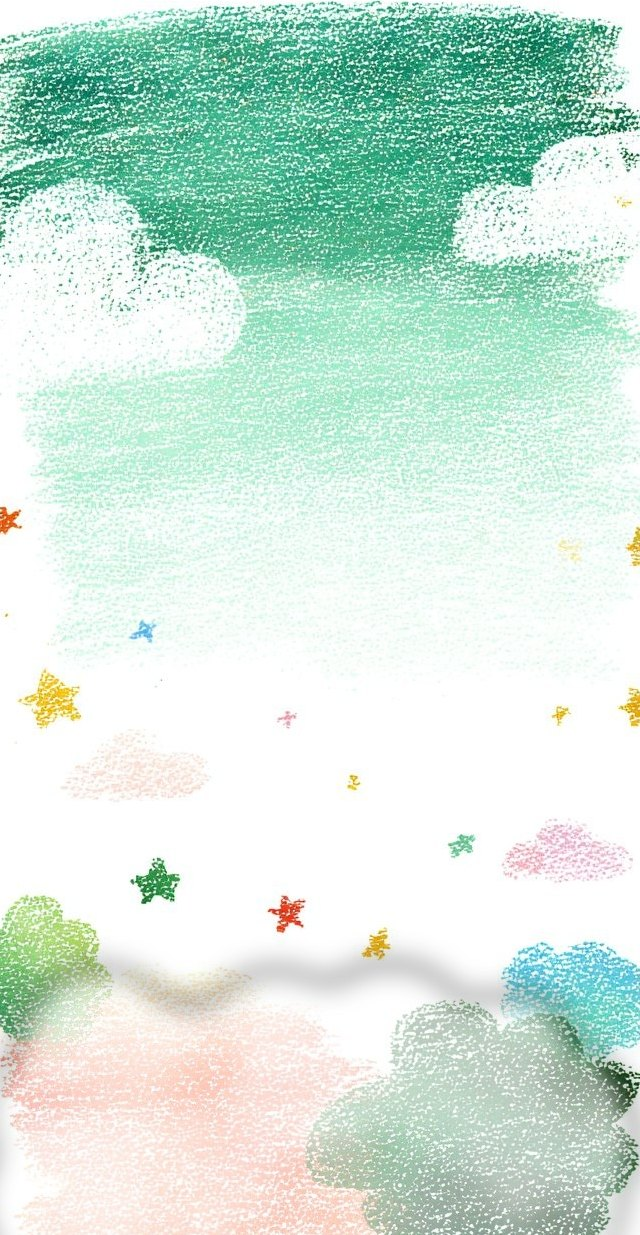
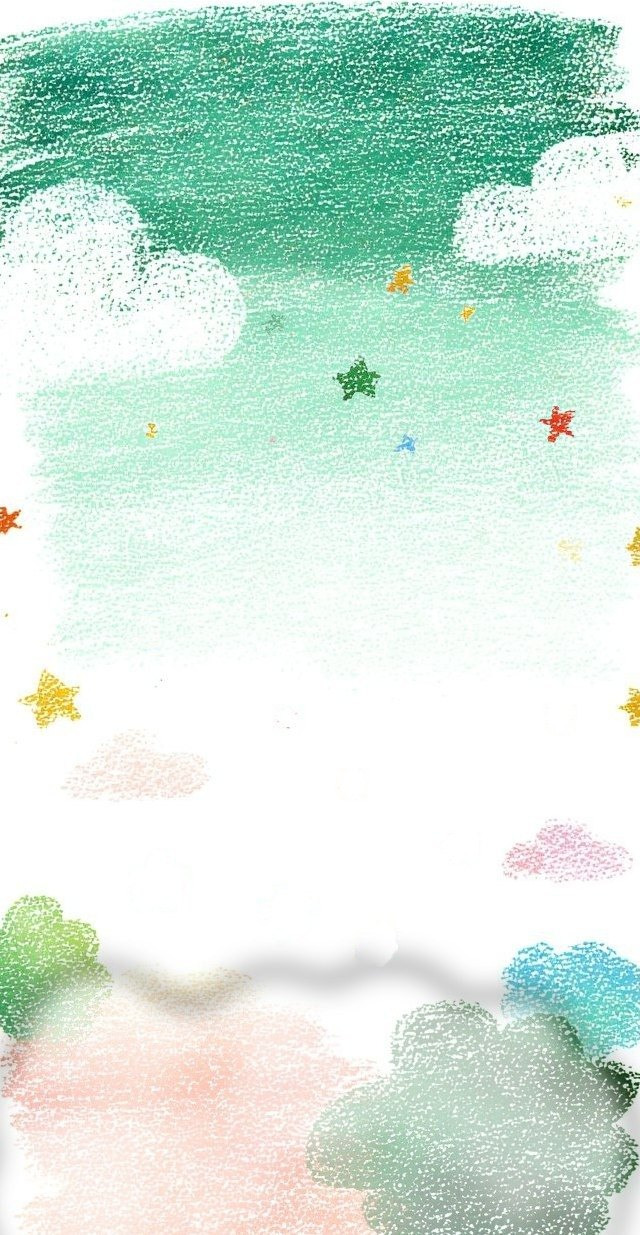
Flah's answers: shift+A/shift+D (WCAG 2.1.4), a part 2 goes straight to its questions, the crayon stickers moved off the tank in both backgrounds (hand-drawn art kept), the canvas 3D slime held a shade darker too; tall phone tank prototype for Flah; dev-slimecontrast draws all three views; sw v158
Claude-Session: https://claude.ai/code/session_01JndoQUkmvLh6Y9cZgAK4rP

diff --git a/index.html b/index.html
@@ -2205,7 +2205,7 @@ select:focus-visible{outline:3px solid #8f6ae0;outline-offset:2px}
     </div>
     </div><!-- /.fadeRow -->
     <button class="btn primary big" id="playBtn" title="play / pause" aria-label="play or pause">▶</button>
-    <button class="btn big" id="drumBtn" title="drums (D)" aria-label="drums" data-l="drums"><svg width="30" height="30" viewBox="0 0 24 24"><use href="#icKit"/></svg></button>
+    <button class="btn big" id="drumBtn" title="drums (shift+D)" aria-label="drums" data-l="drums"><svg width="30" height="30" viewBox="0 0 24 24"><use href="#icKit"/></svg></button>
     <button class="btn big" id="bandBtn" title="backing band" aria-label="backing band" data-l="band"><svg width="45" height="34" viewBox="0 0 32 24"><use href="#icBass"/></svg></button>
     <button class="btn big" id="dropBtn" title="drop a ball" aria-label="drop a ball" data-l="ball"><svg width="28" height="28" viewBox="0 0 24 24"><use href="#icBall"/></svg></button>
     <button class="btn big" id="newShapeBtn" title="new shape!" aria-label="new shape">🎲</button>
@@ -2226,7 +2226,7 @@ select:focus-visible{outline:3px solid #8f6ae0;outline-offset:2px}
      Populated at runtime by MOVING the existing (already-wired) controls in, so there is exactly one
      #bpmNum, one #drumSig etc. in the document - duplicating them would fork the state. -->
 <div id="studioBar"></div>
-<div id="autoRow"><button class="slimeswitch" id="slimeBig" title="auto-play (A)"><span class="ss-knob"><span class="sic">✨</span></span></button><button type="button" id="autoNotesBtn" aria-pressed="false" aria-label="the slime plays notes too" title="the slime plays notes too"><span class="anWord" aria-hidden="true">notes</span><svg viewBox="0 0 28 28" width="30" height="30" aria-hidden="true"><defs><radialGradient id="anG" cx=".34" cy=".3" r=".85"><stop offset="0" stop-color="#fff"/><stop offset=".28" stop-color="#d4f7ea"/><stop offset=".7" stop-color="#8fdcc4"/><stop offset="1" stop-color="#3fae90"/></radialGradient></defs><path d="M16.6 19.5V4.2" fill="none" stroke="#4a4170" stroke-width="2.3" stroke-linecap="round"/><path d="M16.6 4.2c3.2.9 5.6 3 5.9 6.6-.9-1.4-2.6-2.4-5.9-2.8" fill="#4a4170" stroke="#4a4170" stroke-width="1.2" stroke-linejoin="round"/><ellipse class="anHead" cx="11.6" cy="20" rx="6.2" ry="4.9" transform="rotate(-22 11.6 20)" fill="url(#anG)" stroke="#2f9c80" stroke-width="1.2"/><ellipse cx="9.4" cy="18.3" rx="1.8" ry="1.1" transform="rotate(-22 9.4 18.3)" fill="#fff" opacity=".9"/><path class="anDash" d="M4.5 4.5 L23.5 23.5" fill="none" stroke="#fff" stroke-width="4.4" stroke-linecap="round"/><path class="anDash" d="M4.5 4.5 L23.5 23.5" fill="none" stroke="#e0332f" stroke-width="2.2" stroke-linecap="round"/></svg></button></div>
+<div id="autoRow"><button class="slimeswitch" id="slimeBig" title="auto-play (shift+A)"><span class="ss-knob"><span class="sic">✨</span></span></button><button type="button" id="autoNotesBtn" aria-pressed="false" aria-label="the slime plays notes too" title="the slime plays notes too"><span class="anWord" aria-hidden="true">notes</span><svg viewBox="0 0 28 28" width="30" height="30" aria-hidden="true"><defs><radialGradient id="anG" cx=".34" cy=".3" r=".85"><stop offset="0" stop-color="#fff"/><stop offset=".28" stop-color="#d4f7ea"/><stop offset=".7" stop-color="#8fdcc4"/><stop offset="1" stop-color="#3fae90"/></radialGradient></defs><path d="M16.6 19.5V4.2" fill="none" stroke="#4a4170" stroke-width="2.3" stroke-linecap="round"/><path d="M16.6 4.2c3.2.9 5.6 3 5.9 6.6-.9-1.4-2.6-2.4-5.9-2.8" fill="#4a4170" stroke="#4a4170" stroke-width="1.2" stroke-linejoin="round"/><ellipse class="anHead" cx="11.6" cy="20" rx="6.2" ry="4.9" transform="rotate(-22 11.6 20)" fill="url(#anG)" stroke="#2f9c80" stroke-width="1.2"/><ellipse cx="9.4" cy="18.3" rx="1.8" ry="1.1" transform="rotate(-22 9.4 18.3)" fill="#fff" opacity=".9"/><path class="anDash" d="M4.5 4.5 L23.5 23.5" fill="none" stroke="#fff" stroke-width="4.4" stroke-linecap="round"/><path class="anDash" d="M4.5 4.5 L23.5 23.5" fill="none" stroke="#e0332f" stroke-width="2.2" stroke-linecap="round"/></svg></button></div>
 <div id="triMixBar">
   <div id="triMix" title="drag to mix: melody (top) · drums (left) · band (right)">
     <svg viewBox="-40 -46 180 172" width="248" height="238" style="display:block;overflow:visible">
@@ -3786,6 +3786,10 @@ function relLum(c){const f=v=>{v/=255;return v<=0.04045?v/12.92:Math.pow((v+0.05
 // a slime the same hue as the page (mint, ~150 deg: Flah's case, green on the green grass; yellow-greens and teals read
 // green on it too, so 75 deg either side) has only lightness to stand out by, so it goes a fifth deeper
 const PAGE_HUE=150/360;
+// an RGB colour (0..255) held to the same shade as slimeShade, hue and saturation kept
+function slimeRGB(c){const r=c[0]/255,g=c[1]/255,b=c[2]/255,mx=Math.max(r,g,b),mn=Math.min(r,g,b),l=(mx+mn)/2,d=mx-mn;
+  let h=0,s=0;if(d){s=l>0.5?d/(2-mx-mn):d/(mx+mn);h=(mx===r?((g-b)/d+(g<b?6:0)):mx===g?(b-r)/d+2:(r-g)/d+4)/6;}
+  const q=slimeShade([h,s,l]);return hslRGB(q[0],q[1],q[2]);}
 function slimeShade(h,yMax){const dh=Math.abs(((h[0]-PAGE_HUE)%1+1.5)%1-0.5)*360,Ym=(yMax||SLIME_Y_MAX)*(dh<75?0.8:1);let l=h[2];for(let i=0;i<70&&l>0.05&&relLum(hslRGB(h[0],h[1],l))>Ym;i++)l-=0.01;return [h[0],h[1],l];}
 let liqRGB=[178,205,240],liqHSL=null; // eased every frame so the color glides between chords, never snaps (round the wheel: liqHSL)
 function liquidColor(){
@@ -6580,7 +6584,10 @@ function drawGoo3D(){if(fillState==="fill"&&goo3D()){
     if(!particles.length){mMask=null;measuredFill=Math.max(0,measuredFill-0.02);return;}
     liquidColor();if(++mFrame%10===0||!mMask)measureFill();
     const m=(liqRGB[0]+liqRGB[1]+liqRGB[2])/3,c=liqRGB.map(v=>Math.max(0,Math.min(255,m+(v-m)*2.2)));   // the chord's colour, pushed to a clear pastel: the flat blend reads grey through tinted glass
-    softBlobs(`rgba(${c.map(v=>(v+(255-v)*0.25)|0).join(',')},.9)`,true);return;}
+    // ...and still a shade darker than the page (look question 6): the pastel push and the lift toward white made a
+    // green slime near white again in this canvas view (the one without a graphics card)
+    const f=slimeRGB(c.map(v=>v+(255-v)*0.25));
+    softBlobs(`rgba(${f.map(v=>v|0).join(',')},.9)`,true);return;}
   ctx.save();ctx.transform(...planeAt(0.5));drawParticles(true);ctx.restore();}
 function drawDroplets3D(){for(const p of particles){if(p.pooled)continue;const s=P3(p.x,p.y,p.z==null?0.5:p.z);
   ctx.fillStyle=aurora(p.hue,58,0.95);ctx.beginPath();ctx.arc(s[0],s[1],2.2*s[2],0,7);ctx.fill();}}
@@ -7887,7 +7894,7 @@ addEventListener('pointerdown',()=>{_ptrAt=performance.now();},true);
 addEventListener('focusin',e=>{_kbFocusEl=(performance.now()-_ptrAt<500)?null:e.target;},true);
 addEventListener('keydown',e=>{
   const tg=e.target.tagName;if(tg==='SELECT'||tg==='INPUT'||tg==='TEXTAREA')return;
-  if((kbOn||S.mode==='learn')&&!e.repeat){ // instrument mode: letters are keys, not shortcuts. learn lessons: always on — no toggle hunting
+  if((kbOn||S.mode==='learn')&&!e.repeat&&!e.shiftKey){ // instrument mode: letters are keys, not shortcuts (shift+letter still is one, Ableton's way). learn lessons: always on
     if(e.code==='KeyZ'||e.code==='KeyX'){
       kbOct=e.code==='KeyZ'?Math.max(-3,kbOct-1):Math.min(3,kbOct+1);
       const ov2=$("kbOctV");if(ov2)ov2.textContent='oct '+(kbOct>=0?'+':'')+kbOct;
@@ -7903,12 +7910,14 @@ addEventListener('keydown',e=>{
   // STUDIO: Space plays and pauses, as in every DAW (Ableton Live 12 manual 42.20 "Play/Stop: Space"; GarageBand "Start or
   // stop playback: Space bar"). The ball rainstorm stays on Enter and Shift there, and on all three in play.
   if(S.mode==='studio'&&e.code==='Space'){e.preventDefault();if(!e.repeat)$("playBtn").click();return;}
-  if(e.code==='Space'||e.code==='Enter'||e.code==='ShiftLeft'||e.code==='ShiftRight'){e.preventDefault(); // hold any of them for a ball rainstorm
+  if(e.code==='Space'||e.code==='Enter'){e.preventDefault(); // hold either for a ball rainstorm (Shift was one too: it is the shortcuts' key now)
     const nw=performance.now();if(nw-lastKb<110)return;lastKb=nw;
     initAudio();if(AC&&AC.state==='suspended')AC.resume();
     spawn(CX+(Math.random()-.5)*R*1.2,CY-R*0.45);if(!S.playing)setPlaying(true);}
-  else if(e.code==='KeyA'&&!e.repeat)$("slimeBig").click();
-  else if(e.code==='KeyD'&&!e.repeat)$("drumBtn").click();
+  // SHIFT+LETTER, NOT A BARE LETTER (WCAG 2.2 SC 2.1.4 Character Key Shortcuts: a printable-key shortcut must be
+  // possible to turn off or remap, or include a modifier; Flah 2026-11-11). A bare A or D typed anywhere did this.
+  else if(e.code==='KeyA'&&e.shiftKey&&!e.repeat)$("slimeBig").click();
+  else if(e.code==='KeyD'&&e.shiftKey&&!e.repeat)$("drumBtn").click();
   else if(e.code==='ArrowUp'||e.code==='ArrowDown'){e.preventDefault();
     setBpm(S.bpm+(e.code==='ArrowUp'?2:-2));}
 });

diff --git a/_dev/dev-learn3.js b/_dev/dev-learn3.js
@@ -242,7 +242,7 @@ const JUDGED=['howlong','sayplay','echo','notes'];   // (staff is read by sight 
  ok(cx.count.trim().startsWith('1 '),'11b the next, tapped the same plus one tap on a small count, does not ('+cx.taps+' taps: '+cx.count+', "'+cx.feed+'")');
 
  // ---- 14: a merged lesson: High and Low's rounds, then Up or Down as its part 2, then ONE ending
- {await open('high');let saw2=false,title2='';
+ {await open('high');let saw2=false,title2='',p2explore=null;
   for(let i=0;i<120&&!(await p.evaluate(()=>!!document.querySelector('.lgDone')));i++){
    await p.evaluate(()=>{const r=document.querySelector('#learnOverlay [data-lg="ready"]');if(r){r.dispatchEvent(new PointerEvent('pointerdown',{bubbles:true,cancelable:true}));return;}
      const l=document.querySelector('#learnOverlay .lgListen.go');if(l)l.click();});await p.waitForTimeout(500);   /* part 2 opens on its own explore screen */
@@ -250,10 +250,11 @@ const JUDGED=['howlong','sayplay','echo','notes'];   // (staff is read by sight 
      const d=window._labHintDeg,e=window._labExpect;
      const el=(e!=null&&document.querySelector('#learnOverlay [data-ch="'+e+'"]'))||(d!=null&&document.querySelector('#learnOverlay .lgRung[data-deg="'+d+'"]'));
      if(el)el.dispatchEvent(new PointerEvent('pointerdown',{bubbles:true,cancelable:true}));return h3;});
-   if(/up or down/i.test(h)){saw2=true;title2=h;}await p.waitForTimeout(700);}
+   if(/up or down/i.test(h)&&!saw2){saw2=true;title2=h;p2explore=await p.evaluate(()=>!!document.querySelector('#learnOverlay [data-lg="ready"]'));}await p.waitForTimeout(700);}
   const end=await p.evaluate(()=>({done:!!document.querySelector('.lgDone'),h3:(document.querySelector('#learnOverlay .lgTop h3')||{}).textContent||'',
     line:[...document.querySelectorAll('#learnOverlay .lgSay')].map(e=>e.textContent).join(' '),again:(document.querySelector('[data-a2="again"]')||{dataset:{}}).dataset.u}));
   ok(saw2,'14 High and Low runs Up or Down as its part 2 ("'+title2+'")');
+  ok(p2explore===false,'14 and the part 2 goes straight to its questions, no second explore screen (Flah 2026-11-11; ready shown: '+p2explore+')');
   ok(end.done&&end.again==='high'&&/PITCH/.test(end.line)&&/UP/.test(end.line),'14 and ends once, as High and Low, with both lines ("'+end.line.slice(0,90)+'")');
   const onMap=await p.evaluate(async()=>{window.LEARN2.home();await new Promise(r=>setTimeout(r,500));return ['updown','findhome','intervals','song'].filter(id=>document.querySelector('.lmMap .uCard[data-u="'+id+'"]'));});
   ok(onMap.length===0,'14 a part is never on the map on its own ('+onMap.join(' ')+')');}
@@ -277,6 +278,8 @@ const JUDGED=['howlong','sayplay','echo','notes'];   // (staff is read by sight 
   ok(bad.length===0,'14 a wrong answer in every judged unit says "Close, listen and try again!" and counts nothing ('+judged.length+' units'+(bad.length?'; '+bad.join(' | '):'')+')');}
 
  // ---- 16: a lesson's drums: the lesson kit whatever studio last picked, about as loud as a lesson's notes allow
+ // (from the map: a lesson left running by 14b, its part 2 now asking at once, played under the measurement)
+ await home();await p.waitForTimeout(600);
  {const lv=await p.evaluate(async()=>{const k1=AC.createBiquadFilter(),k2=AC.createBiquadFilter();k1.type='highshelf';k1.frequency.value=1681.97;k1.gain.value=4;
     k2.type='highpass';k2.frequency.value=38.13;k2.Q.value=0.5;const sp=AC.createScriptProcessor(1024,1,1);outClip.connect(k1);k1.connect(k2);k2.connect(sp);sp.connect(AC.destination);
     let s=0,n=0,on=false;sp.onaudioprocess=e=>{if(!on)return;for(const x of e.inputBuffer.getChannelData(0)){s+=x*x;n++;}};

diff --git a/_dev/dev-studiokeys.js b/_dev/dev-studiokeys.js
@@ -4,7 +4,8 @@
 //    1. in studio, Space plays and pauses (and drops no ball); in play it still drops a ball (the kids' room keeps its toy)
 //    2. Space on a button reached with the keyboard presses that button (WCAG: a focused control answers Space), and
 //       does not touch the transport; after a mouse click leaves a button focused, Space is the transport again
-//    3. the controls with keys say so: play names Space (studio), drums D, the slime A, the tempo box says it drags
+//    3. the controls with keys say so: play names Space (studio), drums shift+D, the slime shift+A (a bare letter does
+//       nothing: WCAG 2.1.4), the tempo box says it drags
 //    4. the sequencer's "on" with the transport stopped starts it: one press, and it sounds (seqSetOn already did; now asserted)
 //  Sabotaged 5 ways (2026-11-10), each caught: no Space transport (1, 2), a keyboard-focused button losing Space (2),
 //  :focus-visible instead of how focus arrived (2), seqSetOn not starting the transport (4), drums' key not named (3).
@@ -46,10 +47,22 @@ const init=()=>{try{for(const k of ['slimehedron-coach','slimehedron-coach-studi
   const aft2=await p.evaluate(()=>({pl:S.playing,pressed:document.activeElement.getAttribute('aria-pressed')}));
   ok(aft2.pl!==pl1&&aft2.pressed===mp,'2. after a mouse click, Space is the transport again ('+pl1+' -> '+aft2.pl+'), the clicked button untouched ('+mp+' -> '+aft2.pressed+')');
   if(aft2.pl)await p.evaluate(()=>setPlaying(false));
+  // 3b. shift+letter, not a bare letter (WCAG 2.1.4), and Shift alone drops nothing
+  await p.evaluate(()=>{if(document.activeElement)document.activeElement.blur();});
+  const a0=await p.evaluate(()=>({sl:S.slimeMode,dr:drumOn,b:balls.length}));
+  await p.keyboard.press('a');await p.keyboard.press('d');await p.waitForTimeout(200);
+  const a1=await p.evaluate(()=>({sl:S.slimeMode,dr:drumOn,b:balls.length}));
+  await p.keyboard.press('Shift');await p.waitForTimeout(150);const a1b=await p.evaluate(()=>balls.length);
+  await p.keyboard.press('Shift+A');await p.keyboard.press('Shift+D');await p.waitForTimeout(250);
+  const a2=await p.evaluate(()=>({sl:S.slimeMode,dr:drumOn}));
+  ok(a1.sl===a0.sl&&a1.dr===a0.dr,'3. a bare A or D does nothing (slime '+a0.sl+' -> '+a1.sl+', drums '+a0.dr+' -> '+a1.dr+')');
+  ok(a2.sl!==a0.sl&&a2.dr!==a0.dr,'3. shift+A and shift+D switch the slime and the drums (slime '+a2.sl+', drums '+a2.dr+')');
+  ok(a1b===a1.b,'3. Shift alone drops no ball ('+a1.b+' -> '+a1b+')');
+  await p.keyboard.press('Shift+A');await p.keyboard.press('Shift+D');await p.waitForTimeout(150);
   // 3. the keys are named
   const tt=await p.evaluate(()=>({play:$("playBtn").title,drums:$("drumBtn").title,slime:$("slimeBig").title,bpm:$("bpmNum").title}));
   ok(/space/i.test(tt.play),'3. [studio] play names its key ("'+tt.play+'")');
-  ok(/\(D\)/.test(tt.drums)&&/\(A\)/.test(tt.slime),'3. drums and the slime name theirs ("'+tt.drums+'", "'+tt.slime+'")');
+  ok(/shift\+D/i.test(tt.drums)&&/shift\+A/i.test(tt.slime),'3. drums and the slime name theirs ("'+tt.drums+'", "'+tt.slime+'")');
   ok(/drag/i.test(tt.bpm),'3. the tempo box says it drags ("'+tt.bpm+'")');
   // 4. the sequencer's on, with the transport stopped
   await p.click('.patTabs [data-pt="seq"]');await p.waitForTimeout(150);

diff --git a/_dev/proto/tall-tank.html b/_dev/proto/tall-tank.html
@@ -1,0 +1,32 @@
+<!doctype html>
+<!-- PROTOTYPE (throwaway, look question 4: "the phone play tank about twice as tall"). Not the app: a quick page that
+     answers one question for Flah: does a tank stretched 1.5x tall on a portrait phone still read as the same shape
+     while it spins? The space is stretched, not the shape, so a spinning hexagon squashes and unsquashes as it turns
+     (a rigid tall shape would need 1.5x the room across, which a phone does not have). Left: today. Right: 1.5x. -->
+<meta charset="utf-8"><meta name="viewport" content="width=device-width,initial-scale=1">
+<title>Tall tank prototype</title>
+<style>
+  body{margin:0;background:#eef6f1;font:600 14px system-ui,sans-serif;color:#463b66;display:flex;gap:24px;justify-content:center;padding:16px}
+  figure{margin:0;display:flex;flex-direction:column;align-items:center;gap:8px}
+  canvas{background:linear-gradient(#cfeee0,#ffffff 45%,#fde7ef);border-radius:28px;box-shadow:0 8px 24px rgba(54,36,104,.18)}
+</style>
+<figure><canvas id="a" width="390" height="844"></canvas><figcaption>today: 290 px tall</figcaption></figure>
+<figure><canvas id="b" width="390" height="844"></canvas><figcaption>stretched 1.5x: about 435 px tall</figcaption></figure>
+<script>
+const N=6,R=145,COL=['#f08ab8','#f5a46c','#ead25a','#4fc79e','#6f9ff0','#b18cf0'];
+function tank(cv,SY){const x=cv.getContext('2d'),CX=195,CY=SY>1?470:479;
+  const balls=Array.from({length:7},(_,i)=>({x:(Math.random()-.5)*80,y:(Math.random()-.5)*80,vx:Math.cos(i*2.1)*2.2,vy:Math.sin(i*2.1)*2.2,c:COL[i%6]}));
+  return t=>{const rot=t*0.00035;x.clearRect(0,0,390,844);
+    // the walls: a regular hexagon turned by the spin, THEN stretched by SY (the space is tall, not the shape)
+    const P=[];for(let i=0;i<N;i++){const a=-Math.PI/2+i*2*Math.PI/N+rot;P.push([Math.cos(a)*R,Math.sin(a)*R*SY]);}
+    x.lineWidth=5;x.lineCap='round';
+    for(let i=0;i<N;i++){const p=P[i],q=P[(i+1)%N];x.strokeStyle=COL[i];x.beginPath();x.moveTo(CX+p[0],CY+p[1]);x.lineTo(CX+q[0],CY+q[1]);x.stroke();}
+    // a few balls bouncing off the walls (inward normals), so the stretched space can be judged in motion
+    for(const b of balls){b.x+=b.vx;b.y+=b.vy;
+      for(let i=0;i<N;i++){const p=P[i],q=P[(i+1)%N];let nx=-(q[1]-p[1]),ny=q[0]-p[0];const l=Math.hypot(nx,ny);nx/=l;ny/=l;
+        if(nx*(-p[0])+ny*(-p[1])<0){nx=-nx;ny=-ny;}const d=(b.x-p[0])*nx+(b.y-p[1])*ny;
+        if(d<9){const vn=b.vx*nx+b.vy*ny;if(vn<0){b.vx-=2*vn*nx;b.vy-=2*vn*ny;}b.x+=(9-d)*nx;b.y+=(9-d)*ny;}}
+      x.fillStyle=b.c;x.beginPath();x.arc(CX+b.x,CY+b.y,9,0,7);x.fill();}};}
+const A=tank(document.getElementById('a'),1),B=tank(document.getElementById('b'),1.5);
+(function loop(t){A(t);B(t);requestAnimationFrame(loop);})(0);
+</script>

diff --git a/_dev/dev-slimecontrast.js b/_dev/dev-slimecontrast.js
@@ -13,6 +13,7 @@
 //  no deeper than the rest (2, the 3D green), the chord hue handed over in degrees again (1, the wheel).
 //  Needs a local server: python -m http.server 8765. Run from the project root: node _dev/dev-slimecontrast.js
 // ============================================================================================
+process.env.SLIME_GL='1';   // the graphics-card tank loads; ?gl=0 asks for the canvas one (no WebGL), so both are drawn
 const {launch}=require('./browser');
 const FAIL=[];const ok=(c,m)=>{console.log((c?'  PASS  ':'  FAIL  ')+m);if(!c)FAIL.push(m);};
 const init=()=>{try{for(const k of ['slimehedron-coach','slimehedron-coach-studio','slimehedron-tapped'])localStorage.setItem(k,'1');}catch(e){}};
@@ -40,7 +41,7 @@ const init=()=>{try{for(const k of ['slimehedron-coach','slimehedron-coach-studi
   ok(hw.gap>=10,'1. the 12 keys\' chord colours spread round the wheel, at least 10 deg apart (the table\'s own closest pair is 14; closest '+hw.gap.toFixed(0)+': '+hw.hs.join(' ')+')');
   worst=[t.green,...t.top.slice(0,2)];await ctx.close();}
  // ---- 2. drawn, in 2D and 3D ----
- for(const view of ['2d','3d']){
+ for(const view of ['2d','3d&gl=0','3d']){   // the flat view, the canvas 3D view (no graphics card), the graphics-card view
   const ctx=await b.newContext({viewport:{width:1280,height:900}});await ctx.addInitScript(init);const p=await ctx.newPage();const errs=[];p.on('pageerror',e=>errs.push(e.message));
   await p.goto('http://127.0.0.1:8765/index.html?m=play&view='+view+'&space=normal');await p.waitForTimeout(3500);
   for(const w of worst){
@@ -69,7 +70,7 @@ const init=()=>{try{for(const k of ['slimehedron-coach','slimehedron-coach-studi
    // 1.4:1 for the green on the green page, and everywhere in 2D. In 3D a colour whose hue already stands out (a yellow
    // on mint) needs 1.2:1: the wet skin's light draws it ~2x its base, and holding a yellow's base low enough for 1.4
    // turned it mustard (screenshots 2026-11-08: base 0.30 -> 1.41:1 and olive, base 0.36 -> 1.24:1 and still candy)
-   const cr=(bg+0.05)/(r.goo+0.05),need=(w.g||view==='2d')?1.4:1.2;
+   const cr=(bg+0.05)/(r.goo+0.05),need=(w.g||view!=='3d')?1.4:1.2;   // 1.2 only for the lit graphics-card skin
    ok(r.n>2000&&cr>=need,'2. ['+view+'] '+(w.g?'the green, ':'')+w.q+' in key '+w.pc+' (needs '+need+':1; rgb '+r.liq.join(',')+'): the slime is '+cr.toFixed(2)+':1 darker than the page behind it (goo '+r.goo.toFixed(3)+', page '+bg.toFixed(3)+', '+r.n+' px)');}
   ok(errs.length===0,'['+view+'] no page errors ('+errs.slice(0,2).join(' | ')+')');
   await ctx.close();}

diff --git a/learn2.js b/learn2.js
@@ -1072,7 +1072,7 @@ function ladderUnit(cfg){
   // honest fix is: let the child play them first. No target, no scoring, no clock. They press the
   // button themselves when they want the questions, which means the questions arrive to a child who
   // already knows what these notes sound like under their own finger.
-  let exploring=(cfg.explore!==false);
+  let exploring=(cfg.explore!==false)&&!_part2Of;   // a part 2 goes straight to its questions: its lesson already explored (Flah 2026-11-11)
   let touched=0;   // how many notes they tried before asking for the questions
 
 
@@ -2171,7 +2171,7 @@ function choiceUnit(cfg){
   // method and wrong about the principle. What a child needs to hear freely HERE is the two things
   // being compared: press "bright", hear bright; press "dark", hear dark; as many times as they
   // like, with nothing scored. Then they ask for the questions.
-  let exploring=(cfg.explore!==false);
+  let exploring=(cfg.explore!==false)&&!_part2Of;   // a part 2 goes straight to its questions: its lesson already explored (Flah 2026-11-11)
 
   try{initAudio();if(AC&&AC.state==='suspended')AC.resume();}catch(e){}
   // PIN THE KEY, like ladderUnit does. A lesson that does not name a root inherits whatever the last

diff --git a/sw.js b/sw.js
@@ -1,4 +1,4 @@
-const C='slimehedron-v157'; // bump each deploy
+const C='slimehedron-v158'; // bump each deploy
 const FILES=['./','./index.html','./learn2.js','./tank3d.js','./goo-worker.js','./vendor/three-slime.js','./teachers/index.html','./privacy.html','./accessibility.html','./manifest.json','./icon-192.png','./icon-512.png','./bg-desktop.webp','./bg-mobile.webp','./bg-desktop.jpg','./bg-mobile.jpg','./slimelogo.png','./kits/kit-pop.png','./kits/kit-rock.png','./kits/kit-disco.png','./kits/kit-bossa.png','./kits/kit-jazz.png','./mixslime_keys.png','./mixslime_drum.png','./mixslime_bass.png','./minis/grn.png','./minis/grn2.png','./minis/grn3.png','./minis/violet.png','./minis/violet2.png','./minis/violet3.png','./minis/bo.png','./minis/blue1.png','./minis/blue2.png','./minis/blue3.png','./minis/pear1.png','./minis/pear2.png','./minis/pear3.png','./minis/pink1.png','./minis/pink2.png','./minis/pink3.png','./minis/teal.png','./minis/teal2.png','./minis/teal3.png','./minis/teal4.png','./minis/orange.png','./minis/bo2.png'];
 self.addEventListener('install',e=>{e.waitUntil(caches.open(C).then(c=>
   Promise.all(FILES.map(f=>c.add(f).catch(()=>{})))       // one missing file must not cost the whole cache

diff --git a/_docs/specs/2026-11-11-tall-phone-tank/spec.md b/_docs/specs/2026-11-11-tall-phone-tank/spec.md
@@ -1,0 +1,24 @@
+# A taller play tank on phones (look question 4)
+
+Status: needs-info (a prototype for Flah to look at first)
+
+Flah 2026-11-11: yes to "a 1.5x stretch on portrait phones, play mode only". Measured first: on a 390x844 phone the
+canvas is a 362 px square (the screen's width) centred in a 715 px tall stage, and the hexagon is 298 x 290 px. A
+regular shape is capped by the width, so the only way to "twice as tall" is to stretch the SPACE: the shape spins as
+before and the space it spins in is 1.5x taller, so a hexagon squashes and unsquashes as it turns (a rigid tall shape
+would need 1.5x the width, which a phone does not have).
+
+That is a "does it feel right" question, so a throwaway prototype comes before the app: `_dev/proto/tall-tank.html`
+(serve the repo, open it on a phone or at 860 px wide: left today, right stretched 1.5x, both spinning with balls).
+
+## For Flah
+Does the stretched one read as the same tank, turning? If yes: it gets built in play on portrait phones only, with
+physics, goo and the 3D renderer following the stretch, and the plugin tripwire rerun (dev-vstparity, dev-vstmelody).
+If no: the tank stays square (the stage's spare height goes to a little more room around it).
+
+## What the build would touch (so the size is known)
+`shapeVerts` (stretch after the spin), the stage's canvas size on portrait phones (720 x 1080 px), the goo's fill
+area, `stageHalfW`, the 3D view's box (tank3d.js), the 2D echoes and the portal/curved spaces (curved stays round: a
+stretched Poincare disk is no longer the hyperbolic plane, so curved space would not stretch). Suites: dev-phone,
+dev-devices, dev-hands, dev-fluid, dev-3d, dev-space, plus a new check that the tank fills at least 50 % of the stage's
+height on a 390x844 phone.
